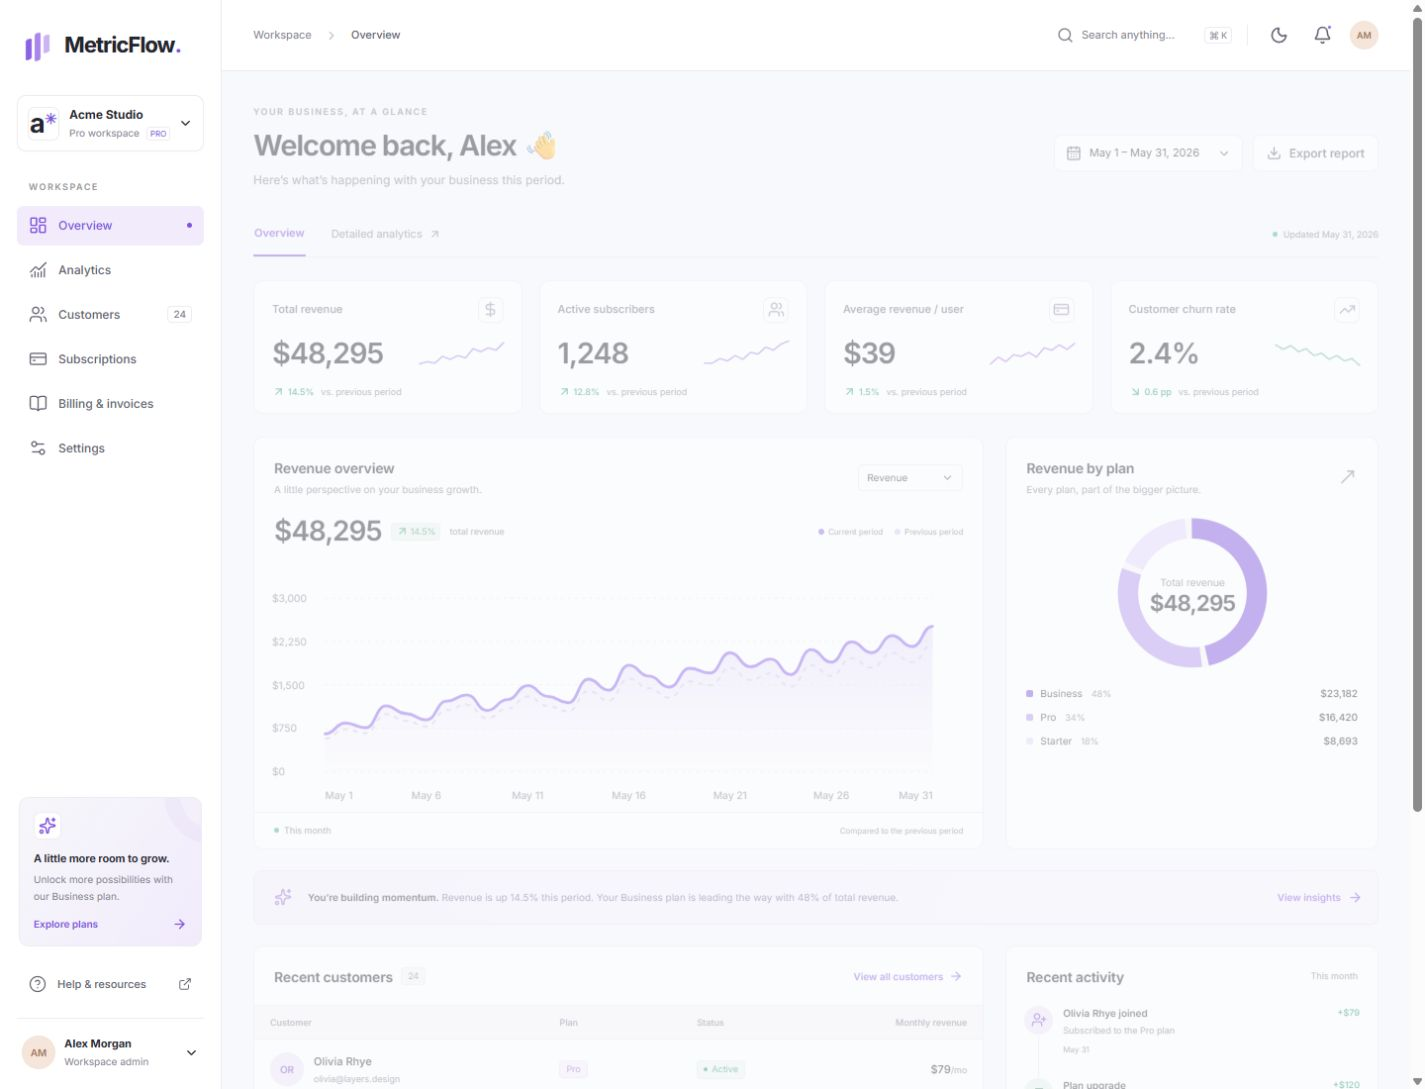
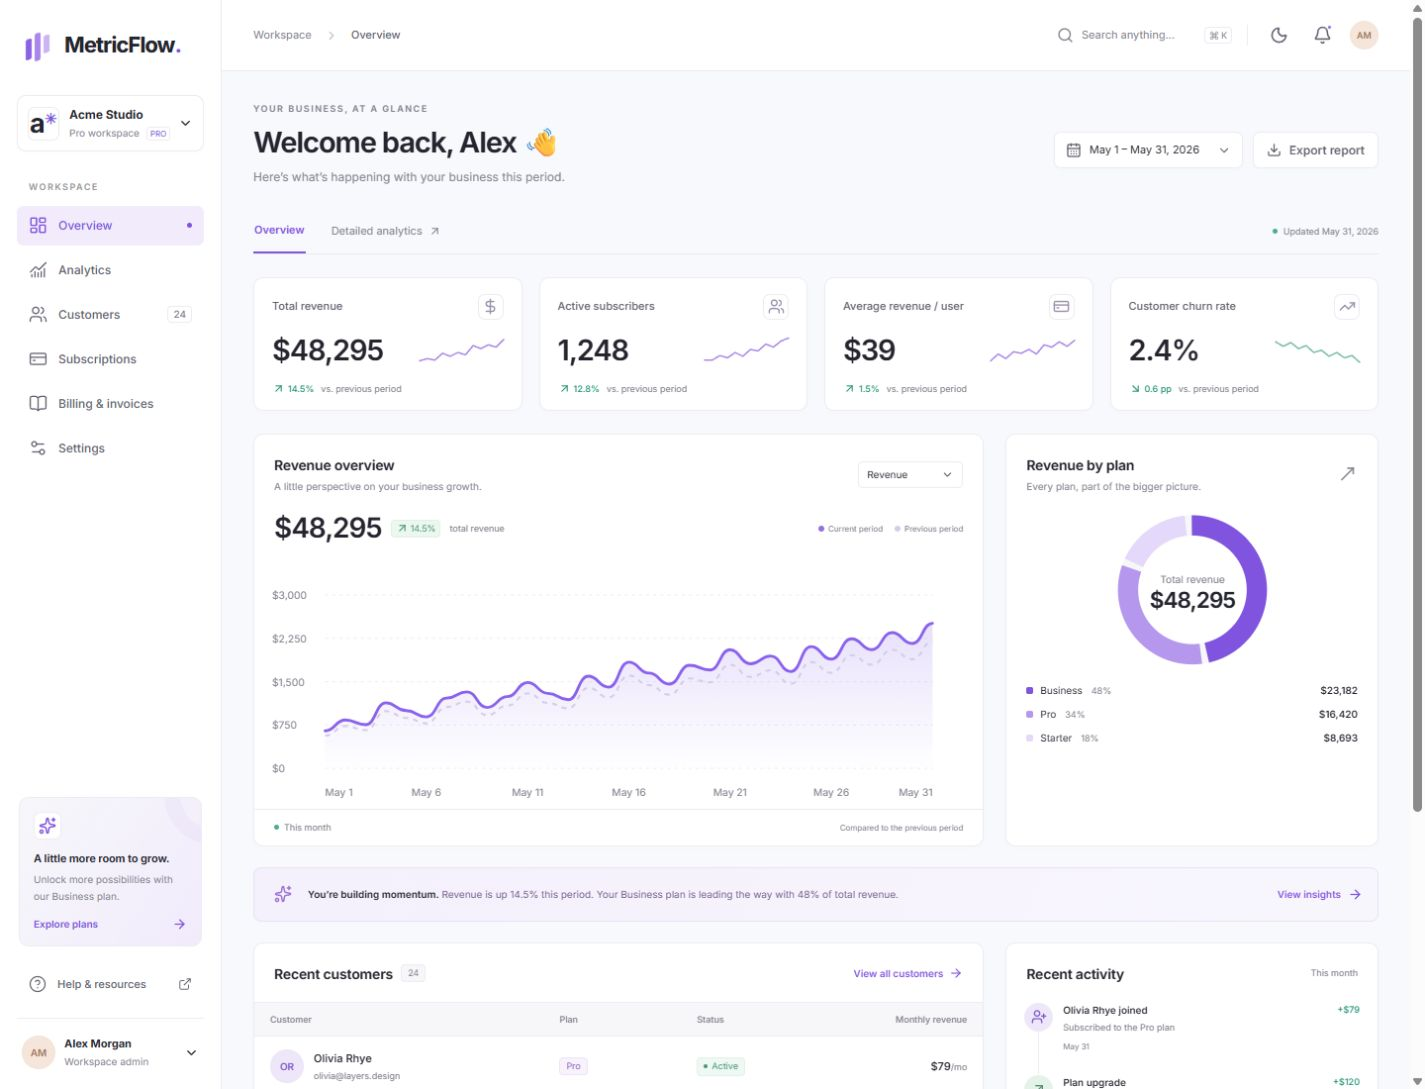
Document the live Vercel demo and finalize portfolio cover

diff --git a/README.md b/README.md
@@ -2,7 +2,7 @@
 
 A complete, interactive frontend portfolio project for subscription businesses. MetricFlow brings revenue, acquisition, customers, subscriptions, and invoices into one responsive workspace.
 
-[Source code on GitHub](https://github.com/jjjcheng/metricflow-dashboard)
+[Live demo](https://metricflow-dashboard-nine.vercel.app) · [Source code on GitHub](https://github.com/jjjcheng/metricflow-dashboard)
 
 ![MetricFlow overview](portfolio/screenshots/01-overview.jpg)
 
@@ -77,6 +77,8 @@ src/
 - In a production integration, replace the browser store with authenticated server APIs, a database, tenant authorization, and validated billing-provider webhooks. Those services are outside this frontend demo.
 
 ## Deploy to Vercel
+
+The live demo is hosted at [metricflow-dashboard-nine.vercel.app](https://metricflow-dashboard-nine.vercel.app). The initial deployment used Vercel's source archive import with the same application revision committed to GitHub. Automatic Git-triggered deployment requires the repository integration to be connected in Vercel.
 
 1. Push the repository to GitHub.
 2. Import that repository in Vercel and select the Next.js preset.

diff --git a/portfolio/verification.md b/portfolio/verification.md
@@ -24,6 +24,7 @@ Verified locally on September 14, 2026.
 - Verified desktop layout at 1440px and mobile layout at 390px, including mobile navigation.
 - Fixed mobile document overflow caused by an absolutely positioned accessible table label; the page width then remained within the mobile viewport while its table scrolled inside its container.
 - Captured five screenshots from the production build and visually reviewed light and dark themes.
+- Verified the Vercel deployment at https://metricflow-dashboard-nine.vercel.app. All six application routes returned HTTP 200 and the live overview rendered correctly.
 
 ## Scope
 

diff --git a/portfolio/upwork-portfolio.md b/portfolio/upwork-portfolio.md
@@ -49,7 +49,7 @@ These are implementation outcomes. Revenue, subscribers, conversion, and growth 
 
 ### Online demo
 
-Deployment URL will be inserted after Vercel deployment is verified.
+[Open the live MetricFlow demo](https://metricflow-dashboard-nine.vercel.app)
 
 ### GitHub
 
